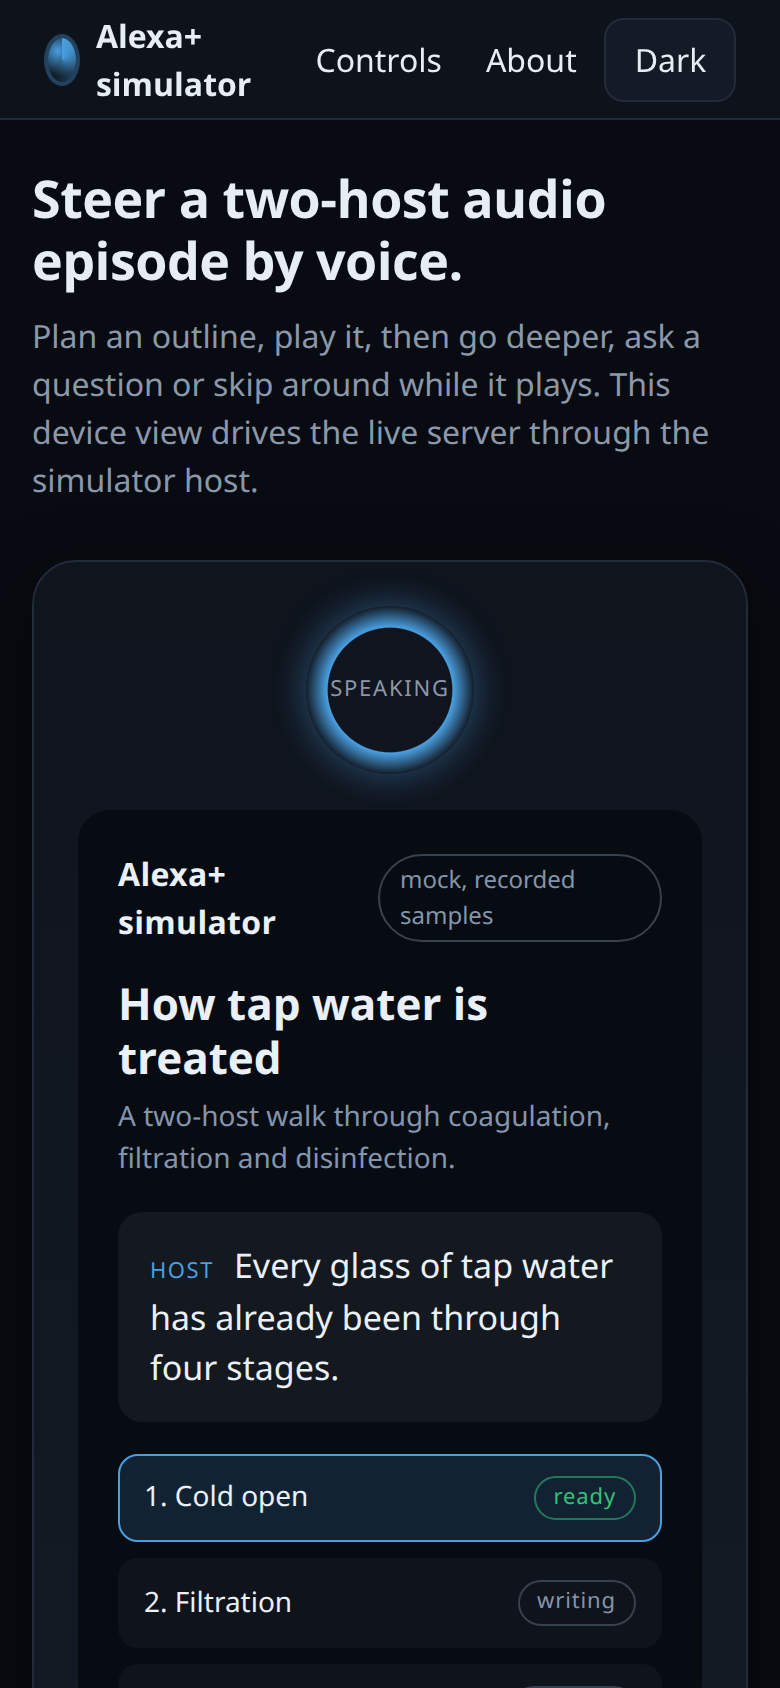
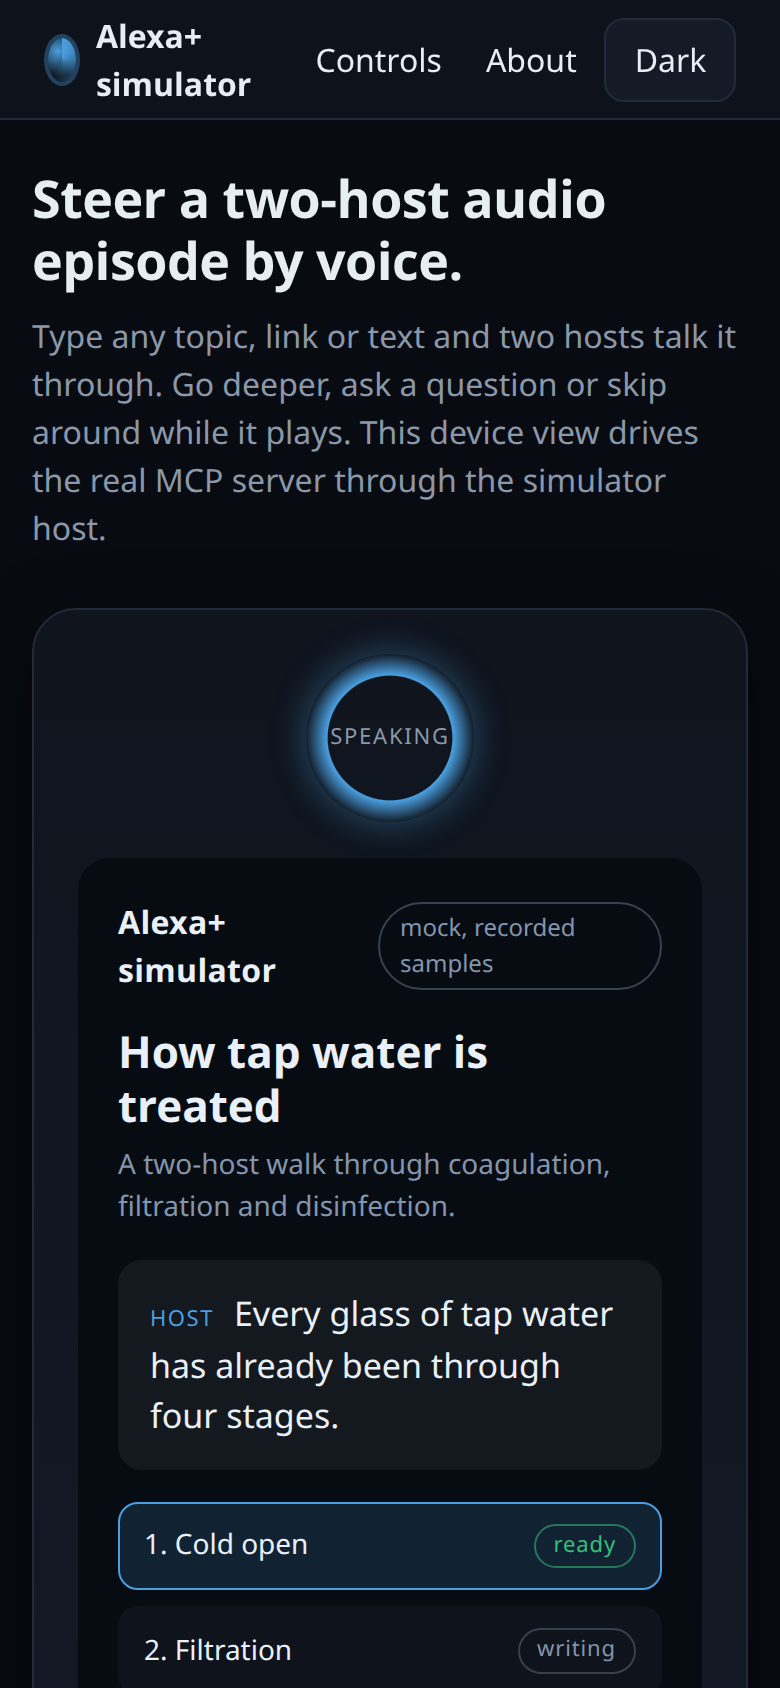
docs: judge-friendly README with one-command launcher and Echo setup; simulator copy and screenshots

Changed region(s): [[0.1538, 0.3389, 0.8615, 1.0], [0.0308, 0.1848, 0.9538, 0.3389], [0.8308, 0.5237, 0.8615, 0.5545]]

diff --git a/packages/sim-web/src/shell.ts b/packages/sim-web/src/shell.ts
@@ -125,7 +125,7 @@ export function buildShell(root: HTMLElement): Shell {
     el("h1", { className: "hero-title", text: "Steer a two-host audio episode by voice." }),
     el("p", {
       className: "hero-sub",
-      text: "Plan an outline, play it, then go deeper, ask a question or skip around while it plays. This device view drives the live server through the simulator host.",
+      text: "Type any topic, link or text and two hosts talk it through. Go deeper, ask a question or skip around while it plays. This device view drives the real MCP server through the simulator host.",
     }),
   ]);
 

diff --git a/README.md b/README.md
@@ -7,9 +7,13 @@
 </p>
 
 <p align="center">
-  <a href="#try-it-in-60-seconds">Try it</a> ·
+  <a href="#try-it-in-one-command"><img alt="Try it in one command" src="https://img.shields.io/badge/%E2%96%B6%20Try%20it-one%20command-2563eb?style=for-the-badge"></a>
+  <a href="#use-it-on-your-echo"><img alt="Use it on your Echo" src="https://img.shields.io/badge/Echo-use%20it%20by%20voice-0ea5e9?style=for-the-badge"></a>
+</p>
+
+<p align="center">
   <a href="#how-it-works">How it works</a> ·
-  <a href="#on-a-real-echo">On a real Echo</a> ·
+  <a href="#use-it-on-your-echo">On your Echo</a> ·
   <a href="#tools-resources-and-prompts">Tools</a> ·
   <a href="#mcp-conformance">Conformance</a> ·
   <a href="docs/ARCHITECTURE.md">Architecture</a> ·
@@ -18,7 +22,7 @@
 
 <p align="center">
   <img alt="MCP protocol 2025-11-25" src="https://img.shields.io/badge/MCP-2025--11--25-4a9fe0?style=flat-square">
-  <img alt="Tests" src="https://img.shields.io/badge/tests-236%20passing-2ea44f?style=flat-square">
+  <img alt="Tests" src="https://img.shields.io/badge/tests-248%20passing-2ea44f?style=flat-square">
   <img alt="npm audit" src="https://img.shields.io/badge/npm%20audit-0%20findings-2ea44f?style=flat-square">
   <img alt="Conformance" src="https://img.shields.io/badge/conformance-28%2F34-2ea44f?style=flat-square">
   <img alt="Stack" src="https://img.shields.io/badge/stack-Node%2022%20%2B%20TypeScript-555?style=flat-square">
@@ -29,7 +33,7 @@
 
 <h3 align="center">The podcast you can interrupt.</h3>
 
-**Overhear is a self-hosted MCP server that turns a topic, a link or a document into a two-host audio episode you steer by voice.** Point it at anything, pick a format, then two synthetic hosts talk it through while you skip around, go deeper or ask a question out loud. It speaks the newest Model Context Protocol, 2025-11-25, over Streamable HTTP, with seven tools, four resources and four prompts behind one bearer token. **The first part starts playing while the rest are still being written**, so you are listening in seconds instead of waiting for the whole episode.
+**Overhear is a self-hosted MCP server that turns any topic, link or document into a two-host audio episode you steer by voice.** Ask about anything, pick a format, then two synthetic hosts talk it through while you skip around, go deeper or ask a question out loud. It speaks the newest Model Context Protocol, 2025-11-25, over Streamable HTTP, with seven tools, four resources and four prompts behind one bearer token. **The first part starts playing while the rest are still being written**, so you are listening in seconds instead of waiting for the whole episode.
 
 > **Why now.** The 2025-11-25 MCP revision made long-running work first class with a tasks API. Overhear is built on it: rendering an episode is a task you watch, cancel and resume, not a call that blocks. The conformance suite checks that surface against the raw wire, **28 of 34** rows, with every non-advisory row passing.
 
@@ -40,25 +44,40 @@
   </picture>
 </p>
 
-## Try it in 60 seconds
+## Try it in one command
 
-There is no hosted demo. The whole product runs on your machine, which is what the hackathon accepts, so a judge sees the real server and the real simulator with no account and no spend. One command brings up both in mock mode, bound to loopback only.
+Linux or macOS (Windows: use WSL), with **Node 22+** and **ffmpeg** installed:
 
 ```bash
-docker compose up      # the MCP server on 127.0.0.1:8787, the Alexa+ simulator on 127.0.0.1:5173
+curl -fsSL https://raw.githubusercontent.com/zkasuran/overhear-alexa/main/install.sh | bash
 ```
 
-Then open **http://127.0.0.1:5173**.
+That clones the repo, installs, builds and opens a menu. The same thing by hand:
 
-|     | Do this                                                                      | You will see                                                                                                                   |
-| --- | ---------------------------------------------------------------------------- | ------------------------------------------------------------------------------------------------------------------------------ |
-| 1   | Open the simulator                                                           | The device connects to the server, both in mock mode, the badge reads "mock, recorded samples"                                 |
-| 2   | Pick a topic and a format, press **Plan episode**                            | A titled outline, each part flipping from `writing` to `ready`                                                                 |
-| 3   | Press **Play**                                                               | The first part plays while the later parts are still being written                                                             |
-| 4   | Say or type **"go deeper"**, **"skip this"** or **"what did they just say"** | The episode expands a part, jumps or recaps, without stopping playback                                                         |
-| 5   | Ask a question out loud                                                      | A spoken answer grounded only in the source and the transcript. If neither covers it, a plain "the episode did not cover that" |
+```bash
+git clone https://github.com/zkasuran/overhear-alexa && cd overhear-alexa && ./overhear.sh
+```
 
-No AWS keys are needed for any of this. The mock audio is a real MP3 so you actually hear it, labelled a recorded sample. To hear real voices, see [Live mode](#live-mode) below.
+| Menu          | What it does                                                                                                          | Needs                                        |
+| ------------- | --------------------------------------------------------------------------------------------------------------------- | -------------------------------------------- |
+| 1 `demo`      | Mock mode: the full product with recorded-sample audio. Opens the simulator at 127.0.0.1:5173                         | nothing                                      |
+| 2 `live`      | Real **Amazon Polly** voices and real scripts on any topic                                                            | AWS credentials for Polly, plus a text model |
+| 3 `echo`      | Live mode on **your own Echo** through the Overhear Studio skill (see [below](#use-it-on-your-echo))                  | an Echo and an Amazon developer login        |
+| 4 `configure` | Asks for the region, AWS profile and script model (Bedrock Nova, or any OpenAI-compatible API), checks each one works |                                              |
+| 5-8           | `status`, `logs`, `stop`, `verify` (the full release gate)                                                            |                                              |
+
+Every option also runs directly, for example `./overhear.sh demo` or `./overhear.sh stop`. Keys are asked for once, stored in `~/.config/overhear/` with mode 600 and read from files, never from the command line.
+
+### Then, in the simulator (http://127.0.0.1:5173)
+
+|     | Do this                                                                            | You will see                                                                                             |
+| --- | ---------------------------------------------------------------------------------- | -------------------------------------------------------------------------------------------------------- |
+| 1   | Type **any topic**, paste a **https:// link** or some text, press **Plan episode** | A titled outline in seconds (the Examples menu fills in ideas)                                           |
+| 2   | Press **Play**                                                                     | Part 1 plays while the later parts are still being written; each part flips to `ready`                   |
+| 3   | Press **Go deeper**, **Skip**, **Back** or **Time left**                           | A deeper part is inserted right after the current one, or playback jumps, without stopping               |
+| 4   | Type a question, for example "what did they say about the mirror?"                 | A spoken answer grounded only in the source and what the hosts said, or "the episode did not cover that" |
+
+The badge on the device says **mock** or **live, Amazon Polly voices**, so the run mode is never ambiguous. Prefer Docker? `docker compose up` runs the demo mode the same way.
 
 ## How it works
 
@@ -136,12 +155,12 @@ Four prompts, one per format, so a plain MCP client finds the product without re
 
 The device is the only simulated piece. Everything it calls is the real server. The mock twins are labelled in the product.
 
-| Real                                                                                                  | Simulated or mocked, labelled                                                                                                                                                                |
-| ----------------------------------------------------------------------------------------------------- | -------------------------------------------------------------------------------------------------------------------------------------------------------------------------------------------- |
-| The MCP server and its Streamable HTTP transport, protocol 2025-11-25                                 | The Alexa+ device. The web client and the host stand in for the Alexa+ surface; the same server also runs on a real Echo through a development skill (see [On a real Echo](#on-a-real-echo)) |
-| The seven tools, the four resources, the four prompts and the task lifecycle                          | Mock models: `OVERHEAR_MODELS=mock` swaps in deterministic text and voice twins, labelled "recorded sample" in the UI                                                                        |
-| The SQLite durable stores, the ffmpeg audio mixer and the SSRF-guarded source fetcher                 | The mock audio is a real short MP3 sized to the text, not silence, so a judge hears the product                                                                                              |
-| In AWS mode: Amazon Bedrock (Nova), Amazon Polly, Amazon S3 and Amazon DynamoDB, each called for real | `GET /health` and the startup banner print the models mode and the store mode, so the run mode is never ambiguous                                                                            |
+| Real                                                                                                  | Simulated or mocked, labelled                                                                                                                                                                          |
+| ----------------------------------------------------------------------------------------------------- | ------------------------------------------------------------------------------------------------------------------------------------------------------------------------------------------------------ |
+| The MCP server and its Streamable HTTP transport, protocol 2025-11-25                                 | The Alexa+ device. The web client and the host stand in for the Alexa+ surface; the same server also runs on a real Echo through a development skill (see [Use it on your Echo](#use-it-on-your-echo)) |
+| The seven tools, the four resources, the four prompts and the task lifecycle                          | Mock models: `OVERHEAR_MODELS=mock` swaps in deterministic text and voice twins, labelled "recorded sample" in the UI                                                                                  |
+| The SQLite durable stores, the ffmpeg audio mixer and the SSRF-guarded source fetcher                 | The mock audio is a real short MP3 sized to the text, not silence, so a judge hears the product                                                                                                        |
+| In AWS mode: Amazon Bedrock (Nova), Amazon Polly, Amazon S3 and Amazon DynamoDB, each called for real | `GET /health` and the startup banner print the models mode and the store mode, so the run mode is never ambiguous                                                                                      |
 
 ## MCP conformance
 
@@ -192,7 +211,7 @@ One core holds every rule with no I/O. The server, the conformance client and th
 
 ## Run it locally
 
-The one-command path is `docker compose up` above. To run the three processes directly, Node 22 and ffmpeg on the path:
+`./overhear.sh` does all of this for you. To run the three processes by hand, with Node 22 and ffmpeg on the path:
 
 ```bash
 npm ci
@@ -212,7 +231,7 @@ Open **http://127.0.0.1:5173**. The server binds loopback only unless `OVERHEAR_
 
 ## Live mode
 
-Live mode speaks with **Amazon Polly generative voices** and writes the scripts with either **Amazon Bedrock (Nova)** or any OpenAI-compatible endpoint. Both text providers sit behind the same adapter seam, so switching is one env value.
+`./overhear.sh configure` sets this up interactively. Live mode speaks with **Amazon Polly generative voices** and writes the scripts with either **Amazon Bedrock (Nova)** or any OpenAI-compatible endpoint. Both text providers sit behind the same adapter seam, so switching is one env value.
 
 ```bash
 # Polly voices + Bedrock Nova scripts
@@ -227,27 +246,30 @@ AWS_REGION=us-west-2 OVERHEAR_MODELS=aws OVERHEAR_STORE=local \
 
 `GET /health` reports which text model and which speech engine are live, and the simulator badge switches from "mock" to "live". The recorded demo runs the second command: Amazon Polly voices every line, and `deepseek-ai/deepseek-v4.1-flash-1017` on GMI Cloud writes the scripts, because Bedrock model invocation is still pending account verification on the demo account. A full live session (plan, render, find, ask) passed `scripts/e2e-session.mjs` in 21 s. The AWS calls, table design and a least-privilege IAM policy are in [docs/AWS.md](docs/AWS.md).
 
-## On a real Echo
+## Use it on your Echo
 
-The same server runs on a real Echo through a development Alexa skill, **Overhear Studio**, with the AudioPlayer interface. The skill endpoint lives in `packages/sim-host/src/alexa/`: it maps each spoken request to an MCP tool, streams each part to the Echo as Amazon Polly audio, and queues the next part (including a deeper part `expand_part` just inserted) when the current one nearly ends. Every request is checked the way the Alexa Skills Kit requires for a self-hosted endpoint: certificate URL, certificate chain and name, RSA SHA-256 signature over the body, a 150 s timestamp window and the skill id.
+Overhear also runs on a real Echo through a development Alexa skill, **Overhear Studio**. A development skill needs no certification: it works on every Echo signed in to your Amazon developer account.
 
-| Say                                                                          | What happens                                                               |
-| ---------------------------------------------------------------------------- | -------------------------------------------------------------------------- |
-| "Alexa, open overhear studio", then "brief me on the James Webb telescope"   | `plan_episode`, then `render_episode` starts as a task                     |
-| "play"                                                                       | the first part streams as soon as it is voiced                             |
-| "Alexa, tell overhear studio to go deeper"                                   | `expand_part` adds a deeper part, which plays right after this one         |
-| "Alexa, ask overhear studio what did they say about the mirror"              | `ask` answers from the source and the transcript, then the episode resumes |
-| "Alexa, ask overhear studio how long is left", "Alexa, next", "Alexa, pause" | answered on the endpoint, no model call                                    |
+**Set it up (about 3 minutes):**
 
-To run it on your own Echo: start the server in live mode, put an https tunnel in front of port 8790 (for example `cloudflared tunnel --url http://127.0.0.1:8790`), run `ask configure` once, then:
+1. Sign in to your Echo and to [developer.amazon.com](https://developer.amazon.com) with the **same Amazon account**. The Echo's language must be English (US, India, UK, Australia or Canada).
+2. Run `./overhear.sh echo`. It configures live mode if needed, installs the Alexa Skills Kit CLI and `cloudflared` if missing, then:
+   - opens a browser for `ask configure`: sign in, press **Allow**, keep profile `default`, and answer **No** to "link your AWS account" (the skill runs on your machine, not in AWS);
+   - starts a free https tunnel so the Echo can reach this machine;
+   - creates the Overhear Studio skill, points it at the tunnel and starts the skill endpoint.
+3. Talk to the Echo:
 
-```bash
-alexa/deploy.sh https://<your-tunnel>                     # creates the development skill, en-US and en-IN
-ALEXA_PUBLIC_BASE=https://<your-tunnel> ALEXA_SKILL_ID=$(cat alexa/.skill-id) \
-  node packages/sim-host/dist/alexa/main.js
-```
+| Say                                                                                           | What happens                                                                |
+| --------------------------------------------------------------------------------------------- | --------------------------------------------------------------------------- |
+| "Alexa, open overhear studio", then "brief me on **any topic**"                               | `plan_episode` writes an outline and `render_episode` starts as an MCP task |
+| about 10 seconds later: "Alexa, ask overhear studio to play"                                  | the first part streams to the Echo as soon as it is voiced                  |
+| "Alexa, tell overhear studio to go deeper"                                                    | `expand_part` adds a deeper part, which plays right after this one          |
+| "Alexa, ask overhear studio what did they say about _something_"                              | `ask` answers from the source and the transcript, then the episode resumes  |
+| "Alexa, ask overhear studio how long is left", "Alexa, next", "Alexa, pause", "Alexa, resume" | answered on the endpoint, no model call                                     |
 
-A development skill works on every Echo signed in to the developer account, with no certification. Alexa allows a skill about 8 seconds per answer, so while the first part is still being voiced the skill says so and you say "play" again; a slow answer to a question is kept and returned when you ask it again.
+If Alexa answers "I'm not sure how to help with that", open the Alexa app, go to **More > Skills & Games > Your Skills > Dev**, check that Overhear Studio is listed and enabled, and check the Echo's language. Keep the machine awake while you use the Echo.
+
+How it works: the skill endpoint (`packages/sim-host/src/alexa/`) maps each spoken request to an MCP tool on the same server, streams each part with the AudioPlayer interface and queues the next part, including a deeper part `expand_part` just inserted, when the current one nearly ends. Every request is checked the way the Alexa Skills Kit requires for a self-hosted endpoint: certificate URL, certificate chain and name, RSA SHA-256 signature over the body, a 150 s timestamp window and the skill id. Alexa allows a skill about 8 seconds per answer, so while a part is still being voiced the skill says so and you ask again; a slow answer to a question is kept and returned the next time you ask it.
 
 ## Command line
 
@@ -296,6 +318,8 @@ docs/AWS.md               the AWS calls, table design and a least-privilege IAM 
 docs/ARCHITECTURE.md      the package map and the request walkthrough
 SECURITY.md               threat model, defences and known limits
 verify.sh                 the one release gate
+overhear.sh               the launcher: demo, live, echo, configure, status, logs, stop, verify
+install.sh                one-line bootstrap: clone, then open the launcher
 ```
 
 ## Roadmap
@@ -304,6 +328,7 @@ verify.sh                 the one release gate
 - [x] Mock models and local store as the default, so the whole product runs with no AWS account
 - [x] AWS mode on Amazon Bedrock (Nova), Polly, S3 and DynamoDB, with a least-privilege policy
 - [x] The Alexa+ simulator: a gapless Web Audio player, ducking, captions and a steer-by-voice surface
+- [x] A real Echo: the Overhear Studio development skill on the same MCP server
 - [ ] Live Nova Sonic speech-to-speech in the simulator host, in place of the push-to-talk fallback
 - [ ] OAuth 2.1 authorization alongside the static bearer tokens
 - [ ] A shared rate limiter so budgets hold across more than one replica
